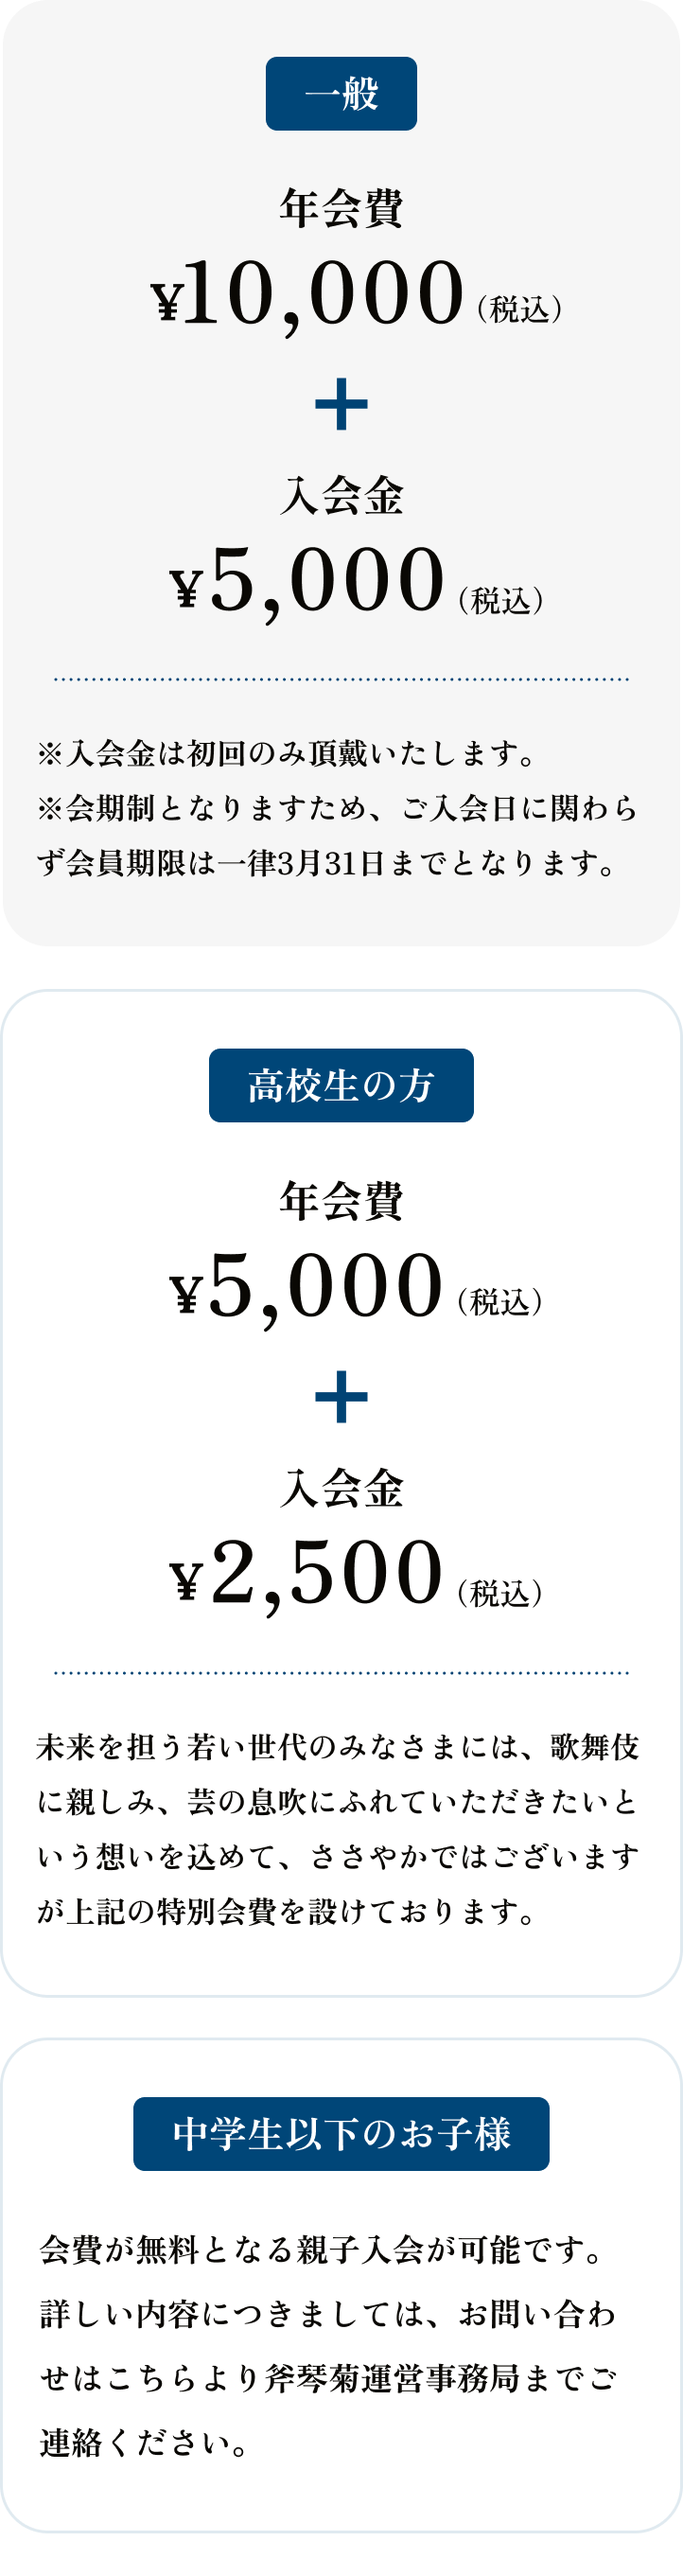
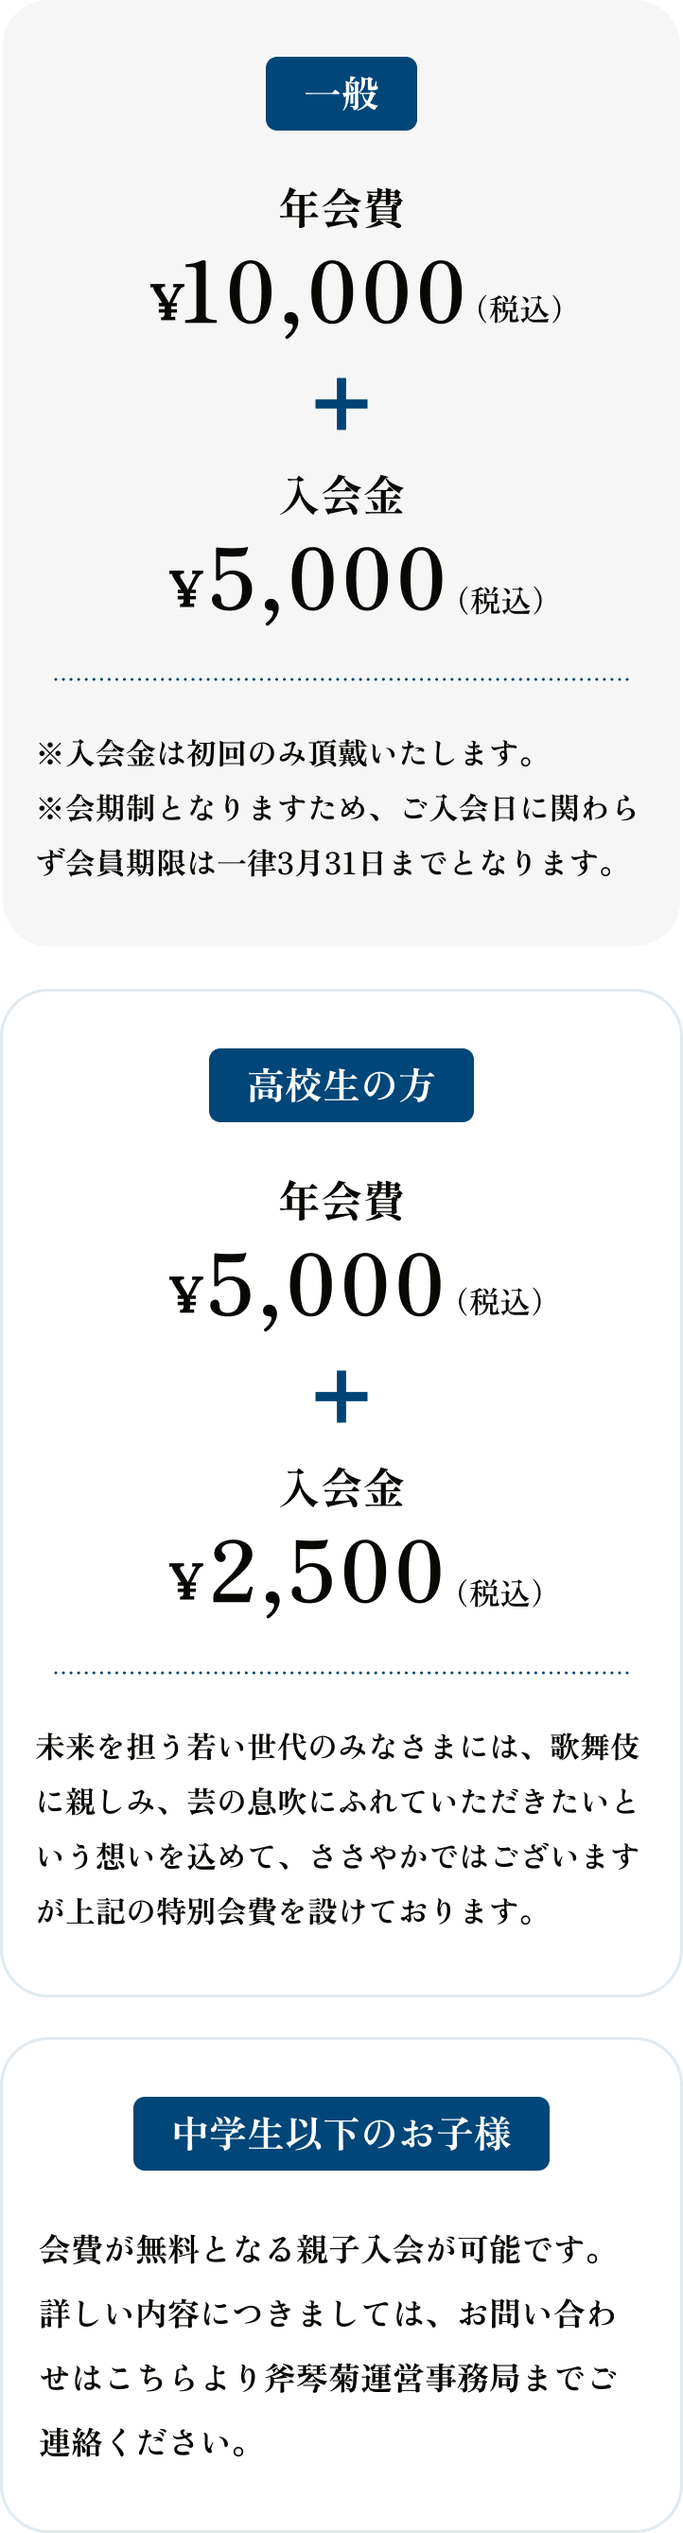
入会ページ終了

diff --git a/app/frontend/styles/gearbox/features/privilege/pages/privilege/privilege.page.scss b/app/frontend/styles/gearbox/features/privilege/pages/privilege/privilege.page.scss
@@ -77,11 +77,24 @@
       }
     }
   }
+
+  @include breakpoints.media-down(sm) {
+    height: 60px;
+
+    .action-text {
+      font-size: 20px;
+    }
+
+    .action-icon {
+      width: 24px;
+    }
+  }
 }
 
 [cog-privilege] .sub-action {
   display: flex;
-  width: 380px;
+  max-width: 380px;
+  width: 100%;
   height: 55px;
   position: relative;
 
@@ -101,6 +114,10 @@
   line-height: var(--gearbox-line-height-tight);
   color: var(--theme-title-text-color);
   text-align: center;
+
+  @include breakpoints.media-down(sm) {
+    font-size: 28px;
+  }
 }
 
 [cog-privilege]  .introduction-container  {
@@ -112,6 +129,10 @@
   .introduction-logo {
     height: 100px;
     width: auto;
+
+    @include breakpoints.media-down(sm) {
+      height: 70px;
+    }
   }
 
   .introduction {
@@ -131,7 +152,6 @@
   }
 
   .introduction-description {
-    margin-bottom: 40px;
     > p {
       font-family: var(--theme-general-font-family);
       font-weight: var(--gearbox-font-weight-medium);
@@ -148,6 +168,10 @@
       }
     }
   }
+
+  @include breakpoints.media-down(sm) {
+    padding: 24px var(--padding-inline) 64px;
+  }
 }
 
 [cog-privilege] .privilege-details-container {
@@ -161,21 +185,36 @@
     display: flex;
     align-items: center;
     flex-direction: column;
-    gap: 50px;
     margin-inline: auto;
+  }
+
+  .title {
+    margin-bottom: 50px;
+  }
+
+  .card {
+    margin-bottom: 40px;
   }
 
   .card > img {
     width: 100%;
     height: auto;
+
+    @include breakpoints.media-down(md) {
+      max-width: 450px;
+      width: 100%;
+    }
+  }
+
+  @include breakpoints.media-down(sm) {
+    padding: 50px var(--padding-inline) 64px;
   }
 }
 
 [cog-privilege] .fees-container {
   background: #fff;
-  padding: 100px var(--padding-inline) 100px;
+  padding: 100px var(--padding-inline) 0;
   width: 100%;
-  padding-bottom: 0px;
 
   .fees {
     max-width: 900px;
@@ -183,13 +222,30 @@
     display: flex;
     align-items: center;
     flex-direction: column;
-    gap: 50px;
     margin-inline: auto;
+  }
+
+  .title {
+    margin-bottom: 50px;
+  }
+
+  .card {
+    margin-bottom: 40px;
   }
 
   .card > img {
     width: 100%;
     height: auto;
+
+    @include breakpoints.media-down(md) {
+      max-width: 450px;
+      width: 100%;
+    }
+  }
+
+  @include breakpoints.media-down(sm) {
+    padding: 50px var(--padding-inline) 0;
+    gap: 40px;
   }
 }
 
@@ -204,13 +260,25 @@
     display: flex;
     align-items: center;
     flex-direction: column;
-    gap: 50px;
     margin-inline: auto;
+  }
+
+  .title {
+    margin-bottom: 50px;
+  }
+
+  .card {
+    margin-bottom: 40px;
   }
 
   .card > img {
     width: 100%;
     height: auto;
+
+    @include breakpoints.media-down(md) {
+      max-width: 450px;
+      width: 100%;
+    }
   }
 }
 
@@ -221,6 +289,7 @@
 
   .title {
     font-size: 26px;
+    margin-bottom: 50px;
   }
 
   .faq {
@@ -229,8 +298,12 @@
     display: flex;
     align-items: center;
     flex-direction: column;
-    gap: 50px;
     margin-inline: auto;
+  }
+
+  @include breakpoints.media-down(sm) {
+    padding: 50px var(--padding-inline) 64px;
+    gap: 40px;
   }
 }
 
@@ -267,12 +340,12 @@
     }
 
     @media (any-hover: hover) {
-    &:hover {
-      .question {
-        color: var(--theme-button-secondary-background-color);
+      &:hover {
+        .question {
+          color: var(--theme-button-secondary-background-color);
+        }
       }
     }
-  }
   }
 
   .label {
@@ -293,6 +366,14 @@
 
     & > .label {
       color: var(--theme-button-primary-background-color);
+    }
+
+    @include breakpoints.media-down(sm) {
+      font-size: 17px;
+
+      & > .label {
+        font-size: 17px;
+      }
     }
   }
 
